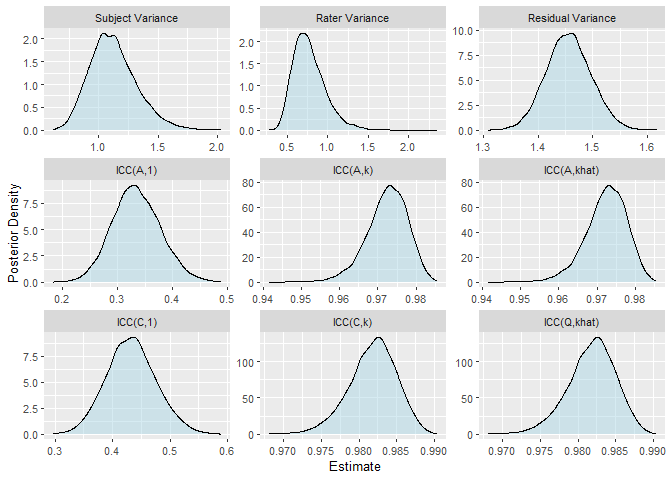
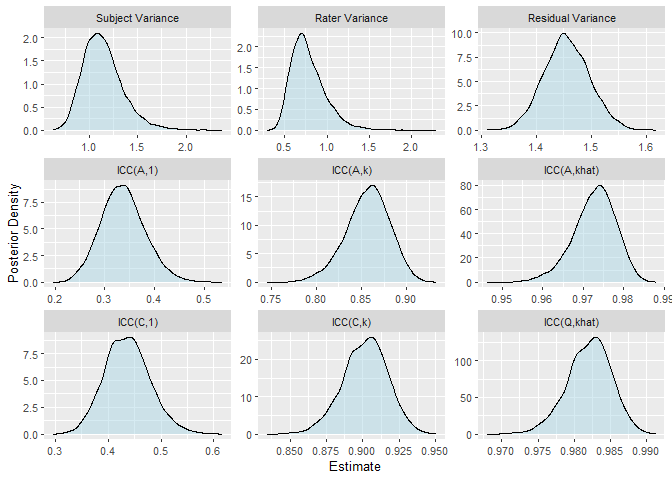
Specify k as an example

diff --git a/README.md b/README.md
@@ -109,6 +109,7 @@ res_2 <- calc_icc(
   subject = "Target",
   rater = "Rater",
   score = "Score",
+  k = 12,
   file = "m2"
 )
 res_2
@@ -116,35 +117,35 @@ res_2
 #> # A tibble: 6 × 6
 #>   term          est lower upper raters error   
 #>   <chr>       <dbl> <dbl> <dbl>  <dbl> <chr>   
-#> 1 ICC(A,1)    0.329 0.252 0.423      1 Absolute
-#> 2 ICC(A,k)    0.973 0.960 0.981     72 Absolute
-#> 3 ICC(A,khat) 0.973 0.960 0.981     72 Absolute
-#> 4 ICC(C,1)    0.435 0.350 0.521      1 Relative
-#> 5 ICC(C,k)    0.983 0.975 0.987     72 Relative
-#> 6 ICC(Q,khat) 0.983 0.975 0.987     72 Relative
+#> 1 ICC(A,1)    0.337 0.255 0.430      1 Absolute
+#> 2 ICC(A,k)    0.862 0.804 0.900     12 Absolute
+#> 3 ICC(A,khat) 0.974 0.961 0.982     72 Absolute
+#> 4 ICC(C,1)    0.440 0.357 0.527      1 Relative
+#> 5 ICC(C,k)    0.906 0.869 0.930     12 Relative
+#> 6 ICC(Q,khat) 0.983 0.976 0.988     72 Relative
 #> 
 #> # Variance Estimates
 #> # A tibble: 3 × 6
 #>   component term     estimate lower upper percent
 #>   <chr>     <chr>       <dbl> <dbl> <dbl>   <dbl>
-#> 1 Subject   Variance    1.04  0.786  1.57   0.326
-#> 2 Rater     Variance    0.694 0.469  1.26   0.217
-#> 3 Residual  Variance    1.46  1.38   1.54   0.457
+#> 1 Subject   Variance    1.08  0.812  1.60   0.335
+#> 2 Rater     Variance    0.699 0.476  1.25   0.216
+#> 3 Residual  Variance    1.45  1.38   1.54   0.448
 #> 
 #> # Intercept Estimates
 #> # A tibble: 108 × 6
 #>    component id    term      estimate   lower  upper
 #>    <chr>     <chr> <chr>        <dbl>   <dbl>  <dbl>
-#>  1 Rater     1     Intercept    0.885  0.463   1.35 
-#>  2 Rater     2     Intercept    1.72   1.24    2.12 
-#>  3 Rater     3     Intercept    0.573  0.109   1.01 
-#>  4 Rater     4     Intercept   -1.19  -1.64   -0.737
-#>  5 Rater     5     Intercept    0.497  0.0437  0.953
-#>  6 Rater     6     Intercept    1.32   0.864   1.75 
-#>  7 Rater     7     Intercept    0.239 -0.216   0.677
-#>  8 Rater     8     Intercept   -0.149 -0.626   0.289
-#>  9 Rater     9     Intercept   -0.716 -1.18   -0.276
-#> 10 Rater     10    Intercept   -1.76  -2.22   -1.34 
+#>  1 Rater     1     Intercept    0.897  0.456   1.37 
+#>  2 Rater     2     Intercept    1.70   1.22    2.15 
+#>  3 Rater     3     Intercept    0.576  0.0963  1.01 
+#>  4 Rater     4     Intercept   -1.16  -1.65   -0.716
+#>  5 Rater     5     Intercept    0.520  0.0532  0.972
+#>  6 Rater     6     Intercept    1.29   0.856   1.77 
+#>  7 Rater     7     Intercept    0.219 -0.221   0.699
+#>  8 Rater     8     Intercept   -0.157 -0.617   0.285
+#>  9 Rater     9     Intercept   -0.732 -1.18   -0.280
+#> 10 Rater     10    Intercept   -1.75  -2.22   -1.31 
 #> # … with 98 more rows
 ```
 
